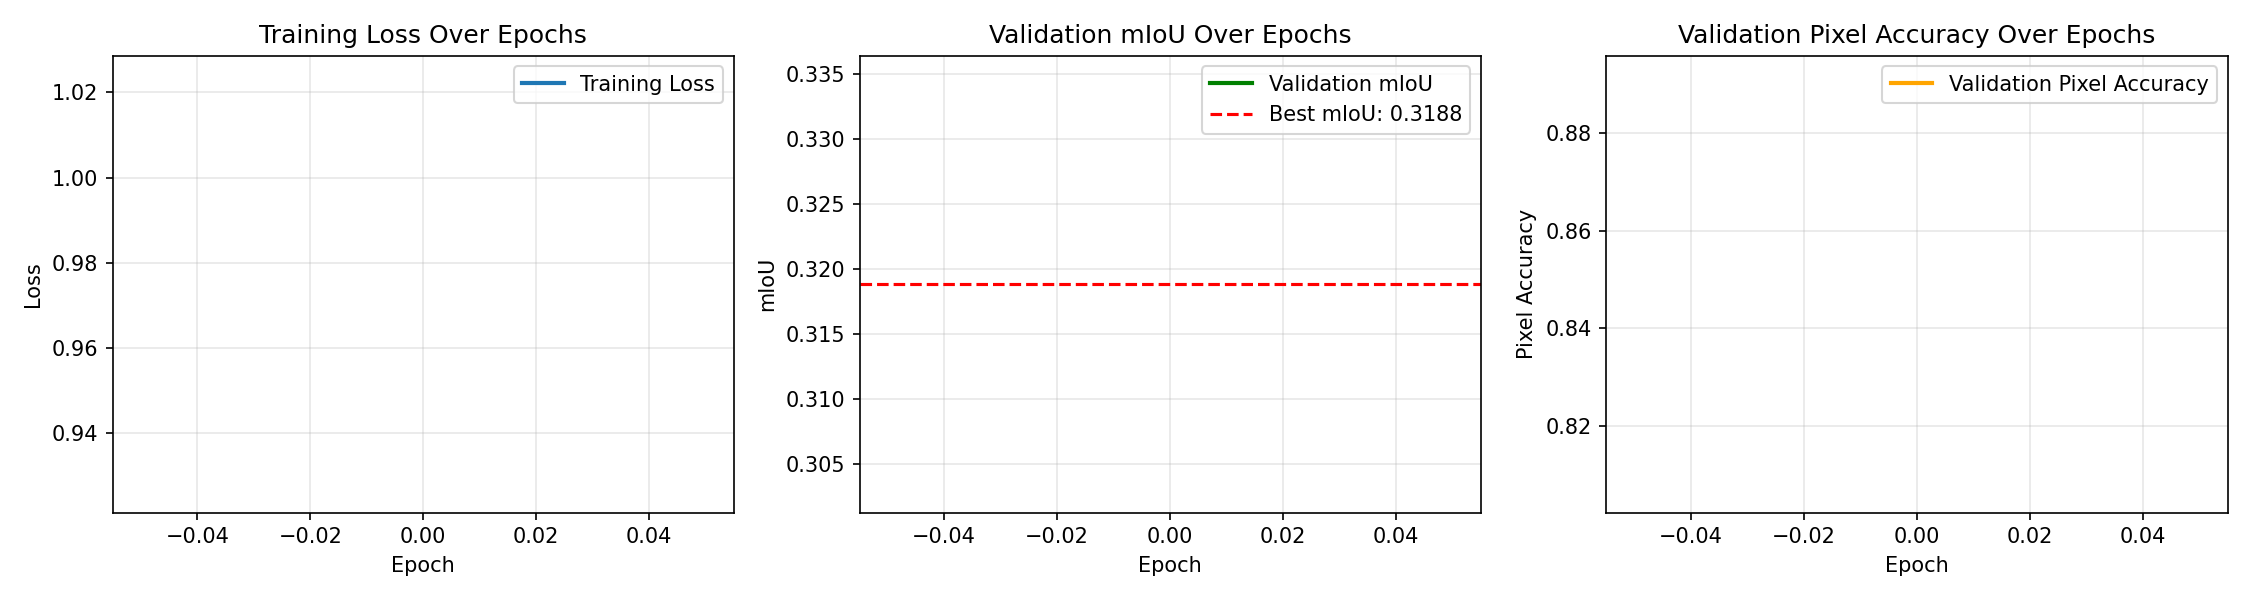
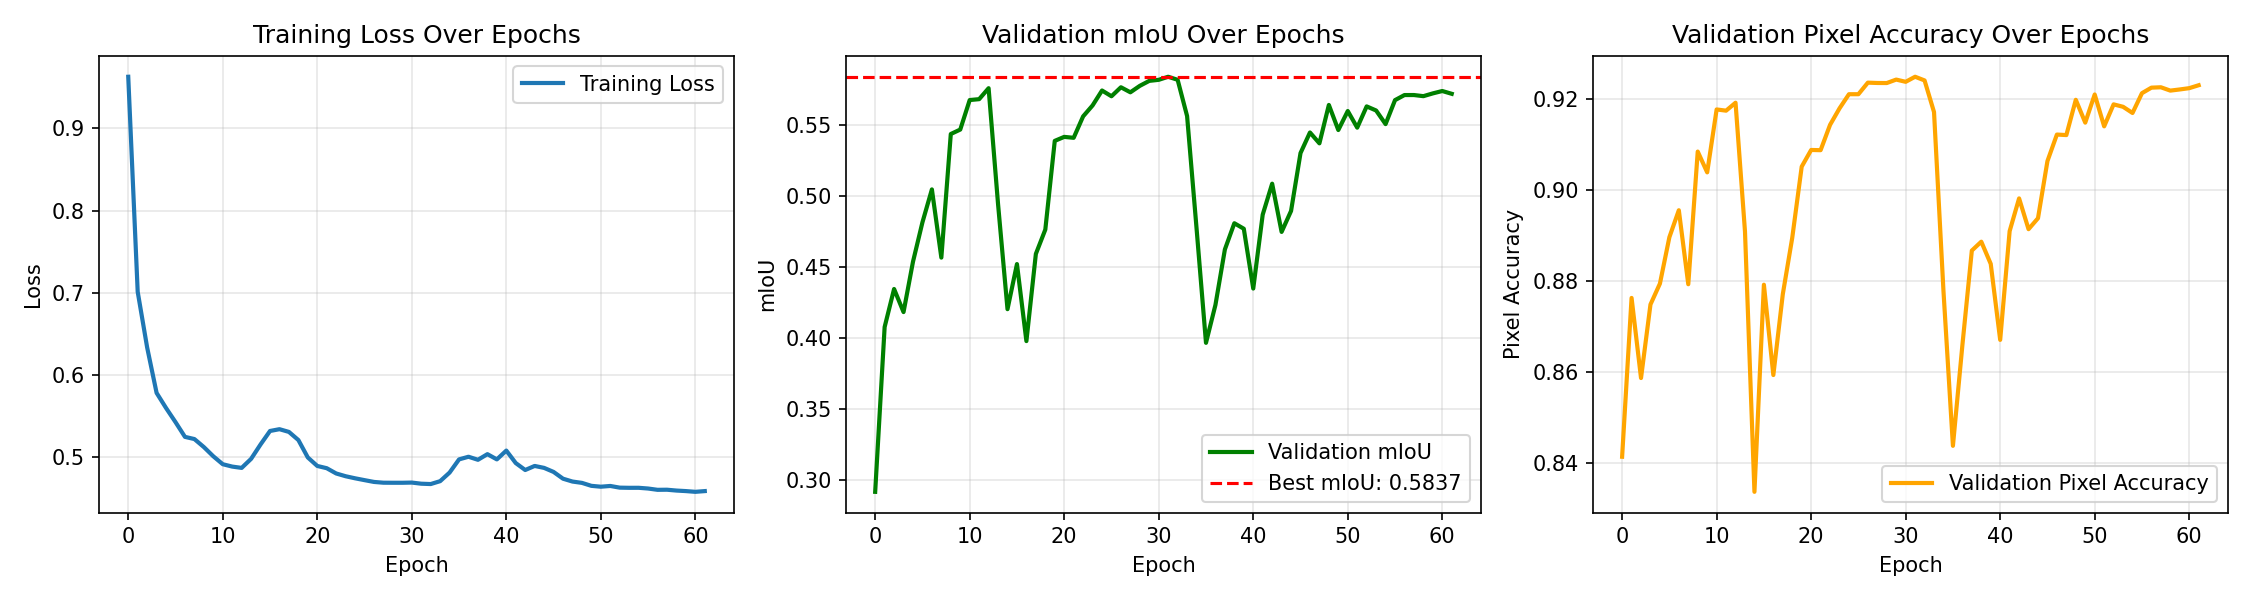
Update training configuration to use 'minisam' model and refresh prediction and training curve images

diff --git a/Advanced_Image_Segmentation/codes/lab05_student.py b/Advanced_Image_Segmentation/codes/lab05_student.py
@@ -3316,7 +3316,7 @@ if __name__ == "__main__":
     
     # ==================== CONFIGURATION ====================
     # Set which operations to run
-    TRAIN_MODELS = ['all']  # List of models: ['fcn32s', 'fcn16s', 'fcn8s', 'deeplabv3plus', 'minisam']
+    TRAIN_MODELS = ['minisam']  # List of models: ['fcn32s', 'fcn16s', 'fcn8s', 'deeplabv3plus', 'minisam']
                               # Or use 'all' to train all models sequentially
     RUN_COMPARISON = True     # Compare all trained models
     RUN_INTERACTIVE_DEMO = False  # Run Mini-SAM interactive demo
